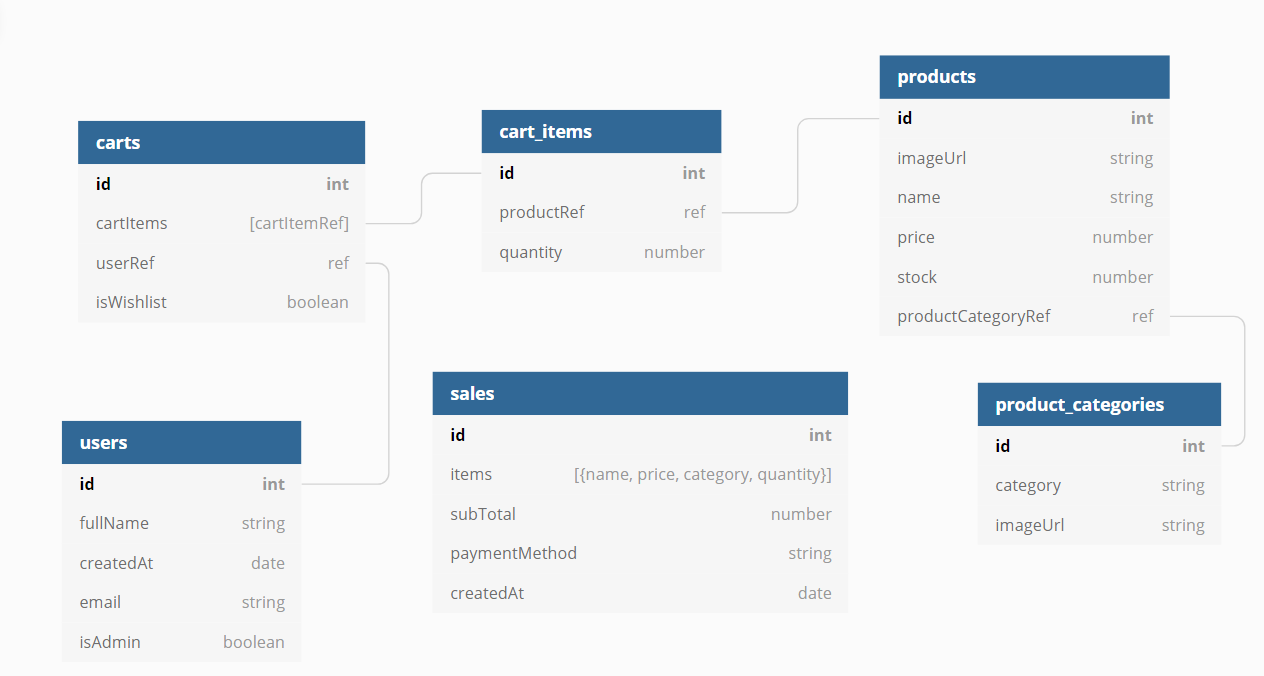
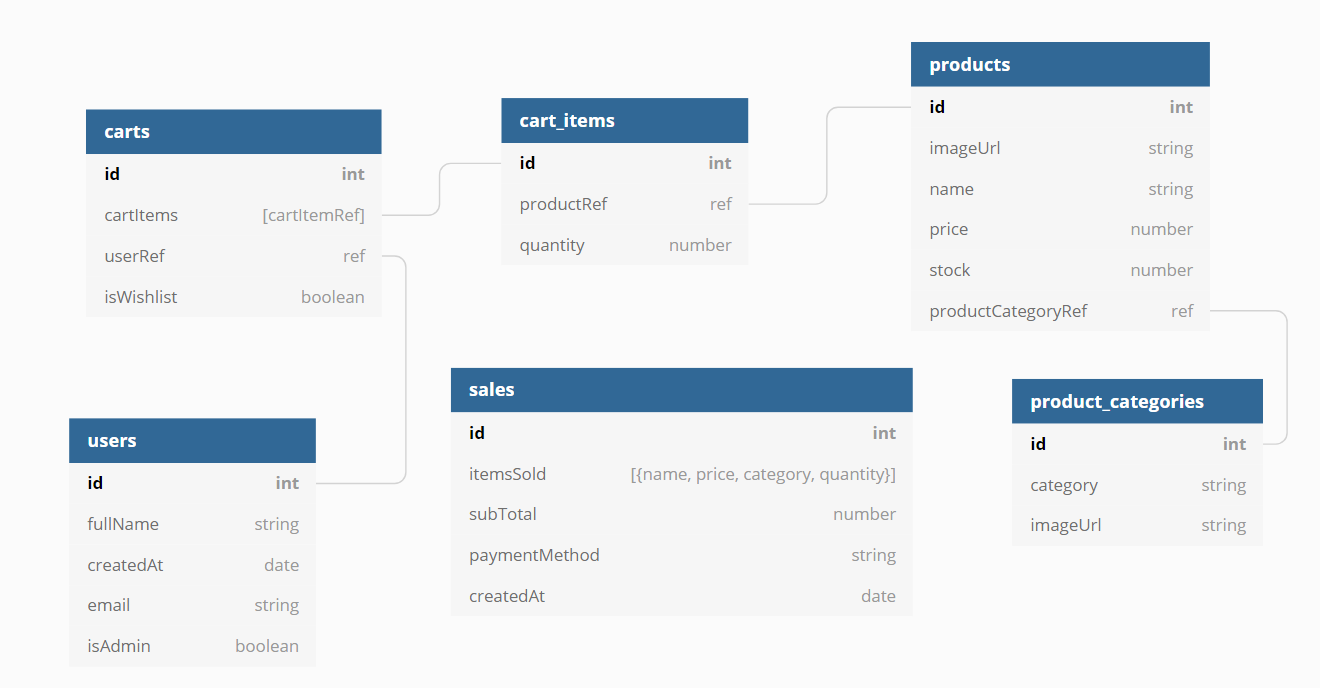
Fixes styling of not disabled pay now button. Fixes bug where if user is logged in, cartItems in cart document is not cleared but cart items is.

diff --git a/client/src/utils/firebase.cart_utils.js b/client/src/utils/firebase.cart_utils.js
@@ -30,6 +30,11 @@ export const deleteAllCartItemDocInCart = async (shoppingCart) => {
   }
 };
 
+export const clearUserSavedCart = async (cartId) => {
+  const cartRef = firestore.doc(`carts/${cartId}`);
+  await cartRef.update({ cartItems: [] });
+};
+
 const getUserCartSnapshot = async (userRef) => {
   const getUserCartAndCartIdQuery = cartCollectionRef
     .where("userRef", "==", userRef)
@@ -51,7 +56,7 @@ export const getUserCartAndCartId = async (userRef) => {
   }
 };
 
-export const saveCartToDb = async (cartWithoutCartItemRefs, cartId) => {
+export const saveCart = async (cartWithoutCartItemRefs, cartId) => {
   const cartRef = firestore.doc(`carts/${cartId}`);
   const cartWithCartItemRefs = await replaceCartWithCartItemRefs(
     cartWithoutCartItemRefs
@@ -79,18 +84,16 @@ const getCartItemFromCartItemRef = async (cartItemRef) => {
 };
 
 const populateCart = async (cartWithCartItemRefs) => {
+  const populatedCart = [];
   try {
-    const populatedCart = [];
     for (let cartItemRef of cartWithCartItemRefs) {
       let cartItem = await getCartItemFromCartItemRef(cartItemRef);
       if (cartItem) {
         populatedCart.push(cartItem);
       }
     }
-    return populatedCart;
-  } catch (err) {
-    return [];
-  }
+  } catch (err) {}
+  return populatedCart;
 };
 
 const replaceCartWithCartItemRefs = async (cartWithoutCartItemRefs) => {

diff --git a/client/src/redux/checkout/checkout.sagas.js b/client/src/redux/checkout/checkout.sagas.js
@@ -7,7 +7,11 @@ import {
 import { checkoutFail, checkoutSuccess } from "./checkout.actions";
 import { clearCart } from "../cart/cart.actions";
 import { createNewSale } from "../../utils/firebase.sales_utils";
-import { selectShoppingCart, selectCartTotal } from "../cart/cart.selectors";
+import {
+  selectShoppingCart,
+  selectCartTotal,
+  selectCartId
+} from "../cart/cart.selectors";
 import { selectCurrentUser } from "../user/user.selectors";
 
 import axios from "axios";
@@ -62,6 +66,7 @@ function* handleCheckoutSuccess({
     const shoppingCart = yield select(selectShoppingCart);
     const shoppingCartSubtotal = yield select(selectCartTotal);
     const currentUser = yield select(selectCurrentUser);
+    const cartId = yield select(selectCartId);
     yield put(addSuccessNotification(successTitle, successMsg));
     yield put(clearCart());
     yield onSuccessfulCheckout();
@@ -69,7 +74,8 @@ function* handleCheckoutSuccess({
       shoppingCart,
       paymentMethod,
       shoppingCartSubtotal,
-      !!currentUser
+      !!currentUser,
+      cartId
     );
   } catch (err) {}
 }

diff --git a/client/src/utils/firebase.sales_utils.js b/client/src/utils/firebase.sales_utils.js
@@ -1,5 +1,8 @@
 import { firestore } from "./firebase.config";
-import { deleteAllCartItemDocInCart } from "./firebase.cart_utils";
+import {
+  deleteAllCartItemDocInCart,
+  clearUserSavedCart
+} from "./firebase.cart_utils";
 
 const saleCollectionRef = firestore.collection("sales");
 
@@ -7,15 +10,17 @@ export const createNewSale = async (
   shoppingCart,
   paymentMethod,
   subTotal,
-  isUserLoggedIn
+  isUserLoggedIn,
+  cartId
 ) => {
   const createdAt = new Date();
   if (isUserLoggedIn) {
     await deleteAllCartItemDocInCart(shoppingCart);
+    clearUserSavedCart(cartId);
   }
-  const items = createNewCartWithImportantProductInfo(shoppingCart);
+  const itemsSold = createNewCartWithImportantProductInfo(shoppingCart);
   const newSaleDocRef = await saleCollectionRef.add({
-    items,
+    itemsSold,
     subTotal,
     paymentMethod,
     createdAt

diff --git a/client/src/redux/cart/cart.sagas.js b/client/src/redux/cart/cart.sagas.js
@@ -9,7 +9,7 @@ import {
   select
 } from "redux-saga/effects";
 import { clearCart, updateCartSuccess, updateCartFail } from "./cart.actions";
-import { saveCartToDb } from "../../utils/firebase.cart_utils";
+import { saveCart } from "../../utils/firebase.cart_utils";
 import { selectShoppingCart, selectCartId } from "../cart/cart.selectors";
 import { selectCurrentUser } from "../user/user.selectors";
 import { addToCart, changeItemQuantity, removeFromCart } from "./cart.utils";
@@ -77,7 +77,7 @@ function* handleCartUpdateSuccess({
     const currentUser = yield select(selectCurrentUser);
     const cartId = yield select(selectCartId);
     if (currentUser && cartId) {
-      yield saveCartToDb(cartWithoutCartItemRefs, cartId);
+      yield saveCart(cartWithoutCartItemRefs, cartId);
     }
   } catch (err) {}
 }

diff --git a/client/src/components/checkout-form/checkout-form.styles.jsx b/client/src/components/checkout-form/checkout-form.styles.jsx
@@ -20,6 +20,8 @@ export const LoadingText = styled.p`
 export const PayNowButton = styled(Button)`
   margin-top: 25px;
   width: 100%;
+  background: darkslategray;
+  color: white;
 
   &:disabled {
     cursor: not-allowed;
